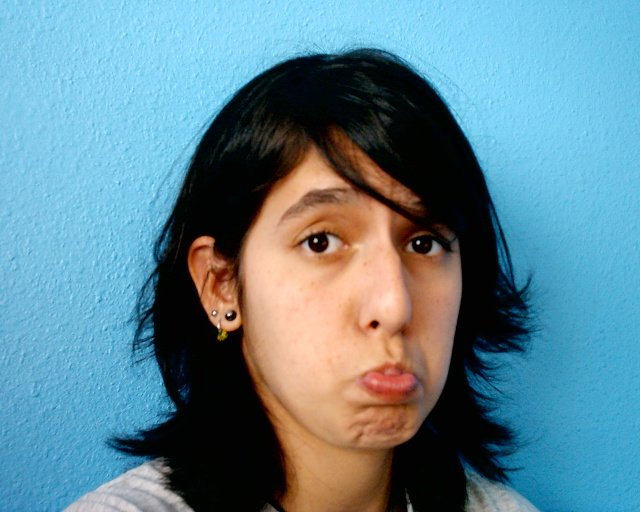
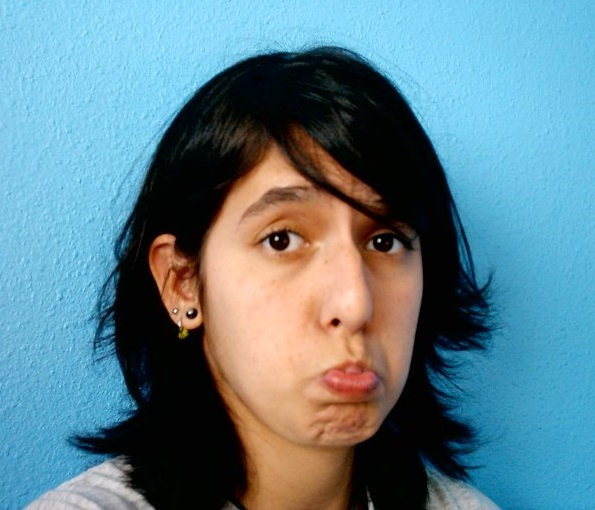
imagenes modificadas para poder usar de perfil

Changed region(s): [[0.0303, 0.0588, 0.8471, 1.0], [0.8168, 0.9706, 0.8471, 1.0], [0.0303, 0.6765, 0.0605, 0.7059]]

diff --git a/web/css/main.css b/web/css/main.css
@@ -17,6 +17,12 @@ li {
     list-style-type: none;
 }
 
+div .footer1 {
+
+  padding:
+}
+
+
 @media (min-width: 968px) {
 
 a ion-icon.iconito {
@@ -76,4 +82,10 @@ div ion-icon {
   font-size: 2rem;
   text-decoration: none;
   color: black;
+}
+
+.foto-perfil {
+  border-radius: 100%;
+  width: 10vw;
+
 }

diff --git a/web/ranking.php b/web/ranking.php
@@ -41,15 +41,23 @@
   </div>
 
 
-    <h1 class= "text-center pt-3 m-0 titulo-jueguito text-wrap">RANKING</h1>
-
-
-
-    <?php include 'footer.php'; ?>
+    <h1 class= "text-center pt-3 pb-3 m-0 titulo-jueguito text-wrap">RANKING DE JUGADORES</h1>
 
 
 
 
+
+
+    <div class="ranking">
+      <ol>
+        <li class="list-group"><div class="posicion-usuario">
+
+         <img src="img/faces/face1.jpg" alt="Un Gamer" class="foto-perfil">Lorem Impsum  </div></li>
+
+      </ol>
+    </div>
+
+<?php include 'footer.php'; ?>
 </div>
 
 </body>
